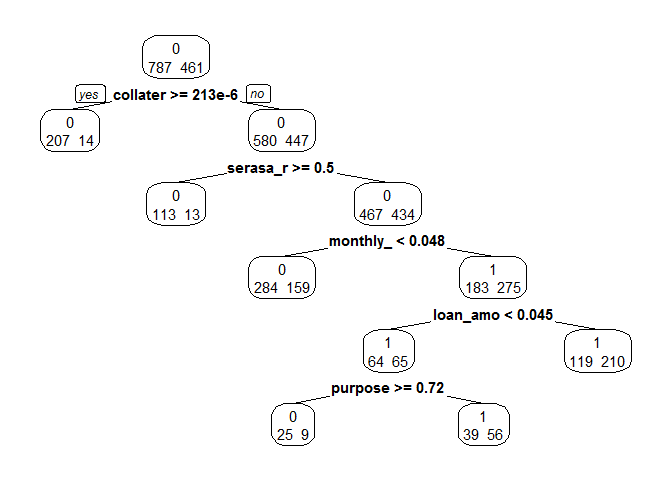
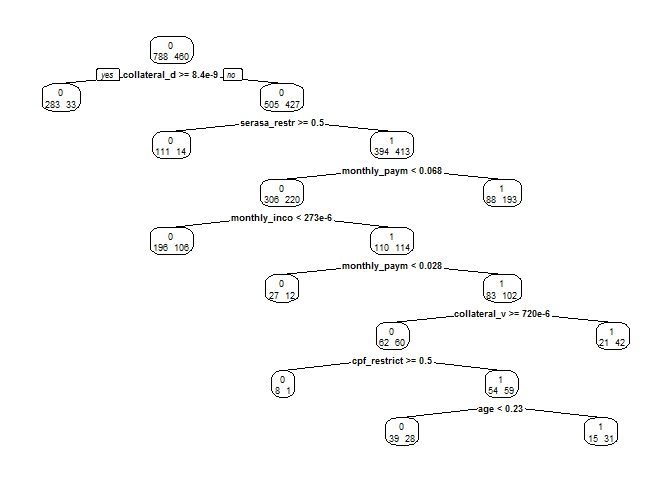
update

diff --git a/README.md b/README.md
@@ -438,7 +438,7 @@ AUCLog1 <- performance(pred1, measure = 'auc')@y.values[[1]]
 AUCLog1
 ```
 
-    ## [1] 0.7473383
+    ## [1] 0.7453075
 
 Esse não é um resultado ruim, mas vamos ver se podemos fazer melhor com um método diferente.
 
@@ -478,7 +478,7 @@ AUCTree <- performance(pred3, measure = 'auc')@y.values[[1]]
 AUCTree
 ```
 
-    ## [1] 0.7280396
+    ## [1] 0.7196146
 
 O resultado foi pior do que o anterior. E ambos não são resultados satisfatórios, dada a complexidade do nosso modelo de árvore, então, novamente, temos que nos perguntar se não estamos melhor usando o modelo de Regressão Logística mais simples do primeiro modelo.
 
@@ -508,7 +508,7 @@ AUCRF <- performance(pred4, measure = 'auc')@y.values[[1]]
 AUCRF
 ```
 
-    ## [1] 0.7554939
+    ## [1] 0.7462712
 
 Com o esforço extra, ainda assim não obtemos um resultado um tanto melhorado. O modelo de Regressão logística é o melhor desempenho até o momento.
 
@@ -944,7 +944,7 @@ logLik(modelo.completo)
 logLik(LogisticModel.1)
 ```
 
-    ## 'log Lik.' -822.7259 (df=15)
+    ## 'log Lik.' -803.5719 (df=15)
 
 ``` r
 logLik(LogisticModel.3)
@@ -964,7 +964,7 @@ extractAIC(modelo.completo)
 extractAIC(LogisticModel.1)
 ```
 
-    ## [1]   15.000 1675.452
+    ## [1]   15.000 1637.144
 
 ``` r
 extractAIC(LogisticModel.3)
@@ -994,8 +994,8 @@ anova(LogisticModel.1,LogisticModel.3)
     ##     serasa_commercial_debts + serasa_protests + marital_status + 
     ##     cpf_restriction + monthly_payment + purpose + education_level
     ##   Resid. Df Resid. Dev Df Deviance
-    ## 1      1233     723.45            
-    ## 2      1232    1362.96  1   -639.5
+    ## 1      1233     687.14            
+    ## 2      1232    1362.96  1  -675.81
 
 Existem diferenças entre os modelos, então ficamos com aquele com mais parâmetros, o modelo 1, o mais complexo, não podemos abandonar ele pelo mais simples, ja que ele explica muita coisa que o modelo 2 mais simples não deu conta de explicar, mas não podemos esquecer que:
 
@@ -1214,15 +1214,15 @@ coefficients(LogisticModel.1) * 20/log(2)
 ```
 
     ##              (Intercept)                      age           monthly_income 
-    ##               -30.467299                25.559479               -18.563399 
+    ##            -3.539493e+01             2.751826e+01            -1.702993e+02 
     ##         collateral_value              loan_amount   collateral_debt_amount 
-    ##                30.200948                -3.990805            -59430.543876 
+    ##             3.085372e+00             5.523832e+01            -6.741140e+04 
     ##       serasa_restriction serasa_dishonored_checks     serasa_expired_debts 
-    ##                -5.969170              -406.891448                27.533848 
+    ##            -8.002104e+00            -4.041904e+02            -4.051691e+02 
     ##     serasa_banking_debts  serasa_commercial_debts          serasa_protests 
-    ##               -63.488788               -24.362149                 9.462070 
+    ##            -6.400382e+01            -3.521645e+01            -6.991561e-01 
     ##          cpf_restriction          monthly_payment                  purpose 
-    ##               -18.056070                47.626307                 4.173000
+    ##            -1.022171e+01             7.110040e+01             4.530113e+00
 
 Uma nova abordagem de um novo modelo
 ------------------------------------
@@ -1240,27 +1240,24 @@ library("OneR")
 #ndf[is.na(ndf)] <- 0
 #credit <- subset(credit,credit$monthly_payment != 0)
 #ndf[is.na(ndf)] <- 0
-modelOne <- OneR(sent_to_analysis ~ . , data = credit, verbose = TRUE)
+modelOne <- OneR(sent_to_analysis ~ . , data = credit[i_test1,-c(12,15,17)], verbose = TRUE)
 ```
 
     ## 
     ##     Attribute                Accuracy
-    ## 1 * monthly_payment          64.25%  
-    ## 2   loan_amount              64.01%  
-    ## 3   age                      63.98%  
-    ## 3   monthly_income           63.98%  
-    ## 3   collateral_value         63.98%  
-    ## 3   collateral_debt_amount   63.98%  
-    ## 3   serasa_restriction       63.98%  
-    ## 3   serasa_dishonored_checks 63.98%  
-    ## 3   serasa_expired_debts     63.98%  
-    ## 3   serasa_banking_debts     63.98%  
-    ## 3   serasa_commercial_debts  63.98%  
-    ## 3   serasa_protests          63.98%  
-    ## 3   marital_status           63.98%  
-    ## 3   cpf_restriction          63.98%  
-    ## 3   purpose                  63.98%  
-    ## 3   education_level          63.98%  
+    ## 1 * monthly_payment          64.62%  
+    ## 2   loan_amount              64.38%  
+    ## 3   age                      64.34%  
+    ## 3   monthly_income           64.34%  
+    ## 3   collateral_value         64.34%  
+    ## 3   collateral_debt_amount   64.34%  
+    ## 3   serasa_restriction       64.34%  
+    ## 3   serasa_dishonored_checks 64.34%  
+    ## 3   serasa_expired_debts     64.34%  
+    ## 3   serasa_banking_debts     64.34%  
+    ## 3   serasa_commercial_debts  64.34%  
+    ## 3   serasa_protests          64.34%  
+    ## 3   cpf_restriction          64.34%  
     ## ---
     ## Chosen attribute due to accuracy
     ## and ties method (if applicable): '*'
@@ -1273,7 +1270,8 @@ summary(modelOne)
 
     ## 
     ## Call:
-    ## OneR.formula(formula = sent_to_analysis ~ ., data = credit, verbose = TRUE)
+    ## OneR.formula(formula = sent_to_analysis ~ ., data = credit[i_test1, 
+    ##     -c(12, 15, 17)], verbose = TRUE)
     ## 
     ## Rules:
     ## If monthly_payment = (0.0044,0.204] then sent_to_analysis = 0
@@ -1283,24 +1281,24 @@ summary(modelOne)
     ## If monthly_payment = (0.801,1]      then sent_to_analysis = 0
     ## 
     ## Accuracy:
-    ## 2672 of 4159 instances classified correctly (64.25%)
+    ## 1881 of 2911 instances classified correctly (64.62%)
     ## 
     ## Contingency table:
     ##                 monthly_payment
     ## sent_to_analysis (0.0044,0.204] (0.204,0.403] (0.403,0.602] (0.602,0.801]
-    ##              0           * 2632            28             0             0
-    ##              1             1459          * 30           * 8           * 1
-    ##              Sum           4091            58             8             1
+    ##              0           * 1854            18             0             0
+    ##              1             1012          * 20           * 5           * 1
+    ##              Sum           2866            38             5             1
     ##                 monthly_payment
     ## sent_to_analysis (0.801,1]  Sum
-    ##              0         * 1 2661
-    ##              1           0 1498
-    ##              Sum         1 4159
+    ##              0         * 1 1873
+    ##              1           0 1038
+    ##              Sum         1 2911
     ## ---
     ## Maximum in each column: '*'
     ## 
     ## Pearson's Chi-squared test:
-    ## X-squared = 22.982, df = 4, p-value = 0.0001277
+    ## X-squared = 16.303, df = 4, p-value = 0.002638
 
 Agora sim temos um modelo mais performático.
 
@@ -1315,54 +1313,54 @@ plot(modelOne)
 **Usando o modelo para prever dados**
 
 ``` r
-prediction <- predict(modelOne, credit[,-c(12,15,17)])
+prediction <- predict(modelOne, credit[-i_test1,-c(12,15,17)])
 ```
 
 **Avaliando as estatísticas de previsão**
 
 ``` r
-OLT <- eval_model(prediction, credit[,-c(12,15,17)])
+OLT <- eval_model(prediction, credit[-i_test1,-c(12,15,17)])
 ```
 
     ## 
     ## Confusion matrix (absolute):
     ##           Actual
     ## Prediction    0    1  Sum
-    ##        0   2633 1459 4092
-    ##        1     28   39   67
-    ##        Sum 2661 1498 4159
+    ##        0    778  447 1225
+    ##        1     10   13   23
+    ##        Sum  788  460 1248
     ## 
     ## Confusion matrix (relative):
     ##           Actual
     ## Prediction    0    1  Sum
-    ##        0   0.63 0.35 0.98
+    ##        0   0.62 0.36 0.98
     ##        1   0.01 0.01 0.02
-    ##        Sum 0.64 0.36 1.00
+    ##        Sum 0.63 0.37 1.00
     ## 
     ## Accuracy:
-    ## 0.6425 (2672/4159)
+    ## 0.6338 (791/1248)
     ## 
     ## Error rate:
-    ## 0.3575 (1487/4159)
+    ## 0.3662 (457/1248)
     ## 
     ## Error rate reduction (vs. base rate):
-    ## 0.0073 (p-value = 0.3677)
+    ## 0.0065 (p-value = 0.4427)
 
 ``` r
 OLT
 ```
 
     ## $correct_instances
-    ## [1] 2672
+    ## [1] 791
     ## 
     ## $total_instances
-    ## [1] 4159
+    ## [1] 1248
     ## 
     ## $conf_matrix
     ##           Actual
-    ## Prediction    0    1
-    ##          0 2633 1459
-    ##          1   28   39
+    ## Prediction   0   1
+    ##          0 778 447
+    ##          1  10  13
 
 ``` r
 OLT <- OLT$correct_instances/OLT$total_instances
@@ -1377,11 +1375,11 @@ Usamos quatro modelos, e uma comparação entre eles, com os seguintes desempenh
 
 | Algoritmo                |  Desempenho|
 |:-------------------------|-----------:|
-| Regressão Logística      |   0.7473383|
-| Árvore de Regressão      |   0.7280396|
-| Floresta aleatória       |   0.7554939|
+| Regressão Logística      |   0.7453075|
+| Árvore de Regressão      |   0.7196146|
+| Floresta aleatória       |   0.7462712|
 | Comparação GLM x RF      |   0.6394231|
-| One level decision trees |   0.6424621|
+| One level decision trees |   0.6338141|
 
 Concluimos que o algoritmo `Regressão Logística` tem uma melhor adaptação a esses dados, mostrando resultados melhores. O mesmo para `Random Forest`. Recomenda-se usar ambos até que a distância de desempenho se justifique. Ao longo do tempo as avaliações podem passar por prova de hipótese para certificar estatisticamente o poder.
 
